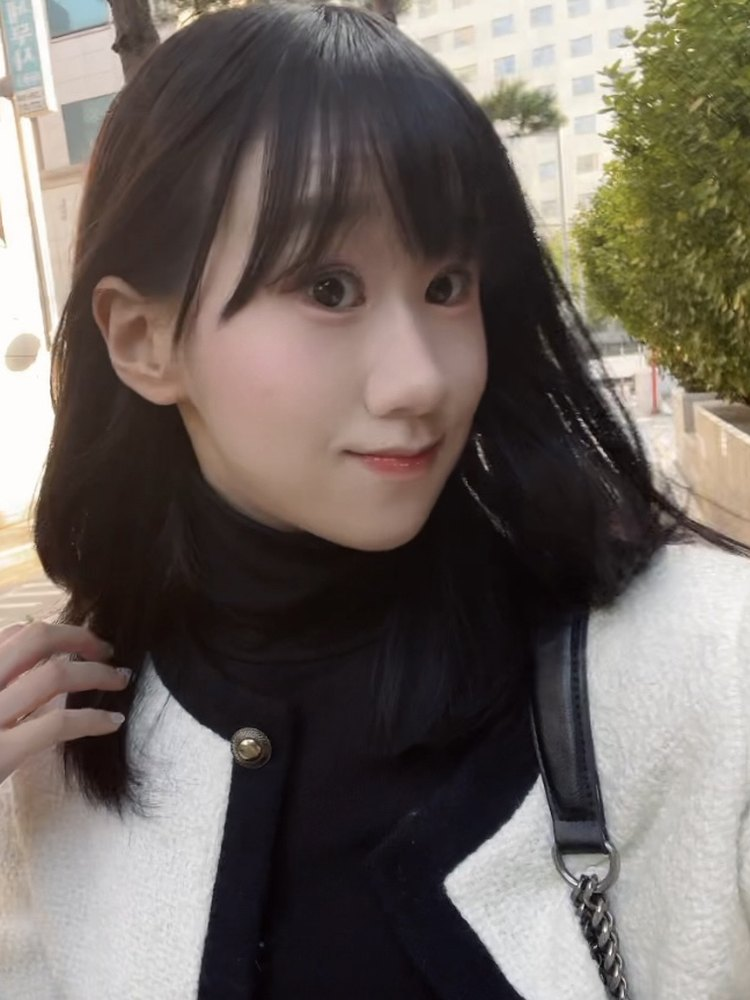
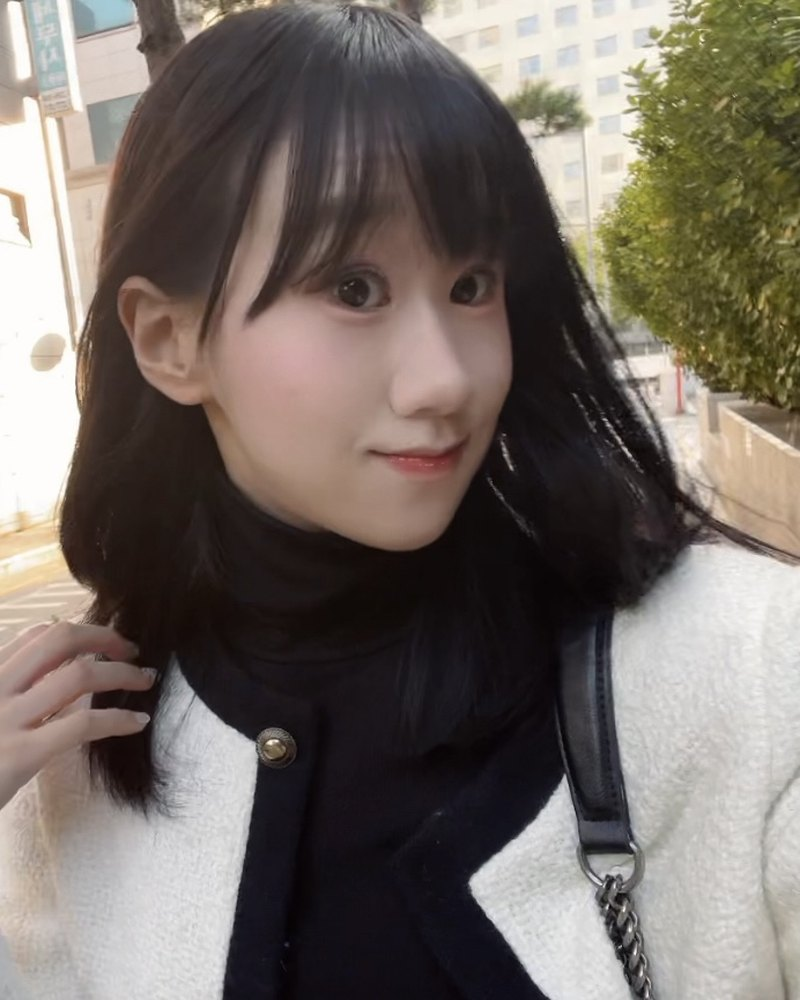
LAKA page: wider badge photo, respect-centered intro item 01, epigraph
Claude-Session: https://claude.ai/code/session_01Nk12WBuyU4fhbDGFtX1SkQ

diff --git a/laka/index.html b/laka/index.html
@@ -105,7 +105,7 @@ nav .wrap{display:flex;align-items:center;justify-content:space-between;gap:16px
 .tag .slot{position:absolute;left:50%;top:13px;width:48px;height:7px;margin-left:-24px;border-radius:7px;background:rgba(0,0,0,.45);box-shadow:inset 0 1px 2px rgba(0,0,0,.6)}
 .tag .b-top{display:flex;justify-content:space-between;align-items:center;padding:32px 20px 12px;font:700 10px var(--body);letter-spacing:.18em;text-transform:uppercase;color:#C9B6CF}
 .tag .b-top b{color:#F2B3BC}
-.tag .b-photo{margin:0 20px;border-radius:14px;overflow:hidden;aspect-ratio:3/4;background:#0E0406}
+.tag .b-photo{margin:0 20px;border-radius:14px;overflow:hidden;aspect-ratio:4/5;background:#0E0406}
 .tag .b-photo img{display:block;width:100%;height:100%;object-fit:cover;object-position:50% 30%}
 .tag .b-name{padding:14px 20px 0;display:flex;align-items:baseline;justify-content:space-between;gap:10px}
 .tag .b-name strong{font-family:"Cormorant Garamond",Georgia,serif;font-weight:700;font-size:40px;line-height:1;letter-spacing:.01em}
@@ -447,6 +447,7 @@ section{scroll-margin-top:70px}
 .ab-ev span,.ab-ev a{font:600 12.5px var(--body);padding:4px 10px;border-radius:99px;background:color-mix(in srgb,var(--yellow) 14%,var(--card));border:1px solid color-mix(in srgb,var(--yellow) 35%,transparent);color:var(--ink);text-decoration:none}
 .ab-ev a:hover{border-color:var(--rose)}
 .ab-close{margin-top:22px;font-family:var(--display);font-weight:700;font-size:clamp(17px,2vw,21px);max-width:40em}
+.epi{margin-top:14px;font-family:"Cormorant Garamond",Georgia,serif;font-style:italic;font-weight:600;font-size:clamp(19px,2.2vw,25px);line-height:1.35;color:var(--metal);max-width:36em}
 .ab-close.quote{margin-top:28px;padding-left:20px;border-left:4px solid var(--yellow)}
 .ab-close .q-en{display:block;font-family:"Cormorant Garamond",Georgia,serif;font-style:italic;font-weight:600;font-size:clamp(24px,3vw,34px);line-height:1.25}
 .ab-close .q-ko{display:block;font-family:var(--body);font-weight:500;font-size:15px;color:var(--muted);margin-top:6px}
@@ -699,6 +700,7 @@ html:not(.en) .star .flow-chips>span[lang="ko"],html.en .star .flow-chips>span[l
   <div class="wrap" style="padding-top:72px">
     <span class="place num-place"><b>01</b>Introduction</span>
     <h2 class="ab-title"><span lang="ko">사람마다<br><em>다른 방식으로 빛난다</em>고 생각합니다</span><span lang="en">I believe everyone<br><em>shines in their own way</em></span></h2>
+    <p class="epi">“We may live on the same planet, but each of us sees a different world.”</p>
   </div>
 <div class="intro">
   <div class="wrap">
@@ -721,7 +723,7 @@ html:not(.en) .star .flow-chips>span[lang="ko"],html.en .star .flow-chips>span[l
 </div>
 <div class="about"><div class="wrap">
     <ol class="ab-list">
-      <li><span class="ab-n">01</span><div class="ab-b"><small class="ab-lb">Observe</small><h3><span lang="ko">사람마다 선택의 기준이 다르다는 점에 주목해 왔습니다</span><span lang="en">I have paid attention to how people choose by different standards</span></h3><p><span lang="ko">미국에서 11년간 다양한 문화 속에서 생활했고, 영어회화 스터디에서 국적과 언어 수준이 다른 사람들을 만나며, 같은 공간에서도 사람마다 소통하는 방식과 선택의 기준이 다르다는 것을 가까이에서 경험했습니다.</span><span lang="en">Eleven years among many cultures in the US, and later an English conversation study full of people of different nationalities and levels, showed me up close that people approach and choose differently.</span></p><p class="ab-ev"><span><span lang="ko">미국 거주 11년</span><span lang="en">11 years in the US</span></span><span><span lang="ko">영어회화 스터디 2년</span><span lang="en">2 years at an English study</span></span></p></div></li>
+      <li><span class="ab-n">01</span><div class="ab-b"><small class="ab-lb">Respect</small><h3><span lang="ko">사람마다 다른 시선과 선택의 기준을 존중합니다</span><span lang="en">I respect that each person sees and chooses differently</span></h3><p><span lang="ko">제가 보는 세상은 살아온 곳과 만나온 사람들, 함께한 경험으로 만들어졌습니다. 미국에서 11년간 다양한 문화 속에서 생활했고, 영어회화 스터디에서 국적과 언어 수준이 다른 사람들을 만나며 누구나 저마다의 세상을 품고 있다는 것을 배웠습니다. 그 차이를 이해하려 할 때 더 깊이 연결되고, 각자에게 의미 있는 경험을 만들 수 있다고 믿습니다.</span><span lang="en">The world I see has been shaped by the places I have lived, the people I have met and the experiences we have shared, and I know everyone carries their own version of the world within them. I find beauty in those differences: there is always another way to see, another story to hear and another perspective to discover. When we take the time to understand them, we can connect more deeply and create experiences that feel meaningful to each person.</span></p><p class="ab-ev"><span><span lang="ko">미국 거주 11년</span><span lang="en">11 years in the US</span></span><span><span lang="ko">영어회화 스터디 2년</span><span lang="en">2 years at an English study</span></span></p></div></li>
       <li><span class="ab-n">02</span><div class="ab-b"><small class="ab-lb">Approach</small><h3><span lang="ko">상대에 따라 다가가는 방식을 바꿉니다</span><span lang="en">I adapt how I approach each person</span></h3><p><span lang="ko">초급자에게는 쉬운 질문으로 대화를 열고, 외국인 멤버와는 대화를 자연스럽게 이어갈 수 있는 방식으로 다가갔습니다. 신규 문의 고객의 반응을 살펴 첫 통화 스크립트도 직접 바꿨습니다.</span><span lang="en">With beginners I opened with easy questions; with international members I kept conversations flowing naturally. I also rewrote the first-call script after watching how new inquirers reacted.</span></p><p class="ab-ev"><span><span lang="ko">회신 7,303건</span><span lang="en">7,303 callbacks</span></span><span><span lang="ko">확정률 조교 중 1위</span><span lang="en">Top booking rate</span></span></p></div></li>
       <li><span class="ab-n">03</span><div class="ab-b"><small class="ab-lb">Design</small><h3><span lang="ko">보여주기보다, 스스로 선택할 수 있는 환경을 만듭니다</span><span lang="en">I build settings where people choose for themselves</span></h3><p><span lang="ko">결과보다 먼저 ‘왜 이렇게 행동할까?’를 고민하고, 그 답을 경험에 반영해 왔습니다. 아는 사람끼리만 어울리던 파티에는 처음 만난 게스트끼리 연결되는 미션을 직접 제안했습니다.</span><span lang="en">Before results, I ask why people behave as they do and build the answer into the experience. When guests only mixed with friends, I proposed a mission that connected first-time guests.</span></p><p class="ab-ev"><span><span lang="ko">파티 4회 기획</span><span lang="en">4 parties planned</span></span><span><span lang="ko">참여 인원 +66.7%</span><span lang="en">Turnout +66.7%</span></span></p></div></li>
       <li><span class="ab-n">04</span><div class="ab-b"><small class="ab-lb">At LAKA</small><h3><span lang="ko">고객이 각자의 아우라를 발견하는 경험을 설계하고 싶습니다</span><span lang="en">I want to design experiences where customers discover their own aura</span></h3><p><span lang="ko">라카가 말하는 ‘모두를 위한 아름다움’은 정해진 아름다움을 제시하기보다, 각자의 컬러와 텍스처로 자신만의 아우라를 발견하게 하는 것이라고 생각합니다. 고객을 하나의 타깃으로 일반화하기보다 개개인의 취향과 반응을 세심하게 살피며, 고객이 브랜드를 자신만의 방식으로 경험할 수 있는 순간을 만들어 가겠습니다.</span><span lang="en">LAKA’s “beauty for everyone” is less about presenting a set ideal and more about helping each person find their own aura through color and texture. Rather than grouping customers into one target, I will watch each person’s response and create moments to experience the brand in their own way.</span></p><p class="ab-ev"><a href="#why"><span lang="ko">Build Your Own Aura 제안 보기 →</span><span lang="en">See the Build Your Own Aura proposal →</span></a></p></div></li>
